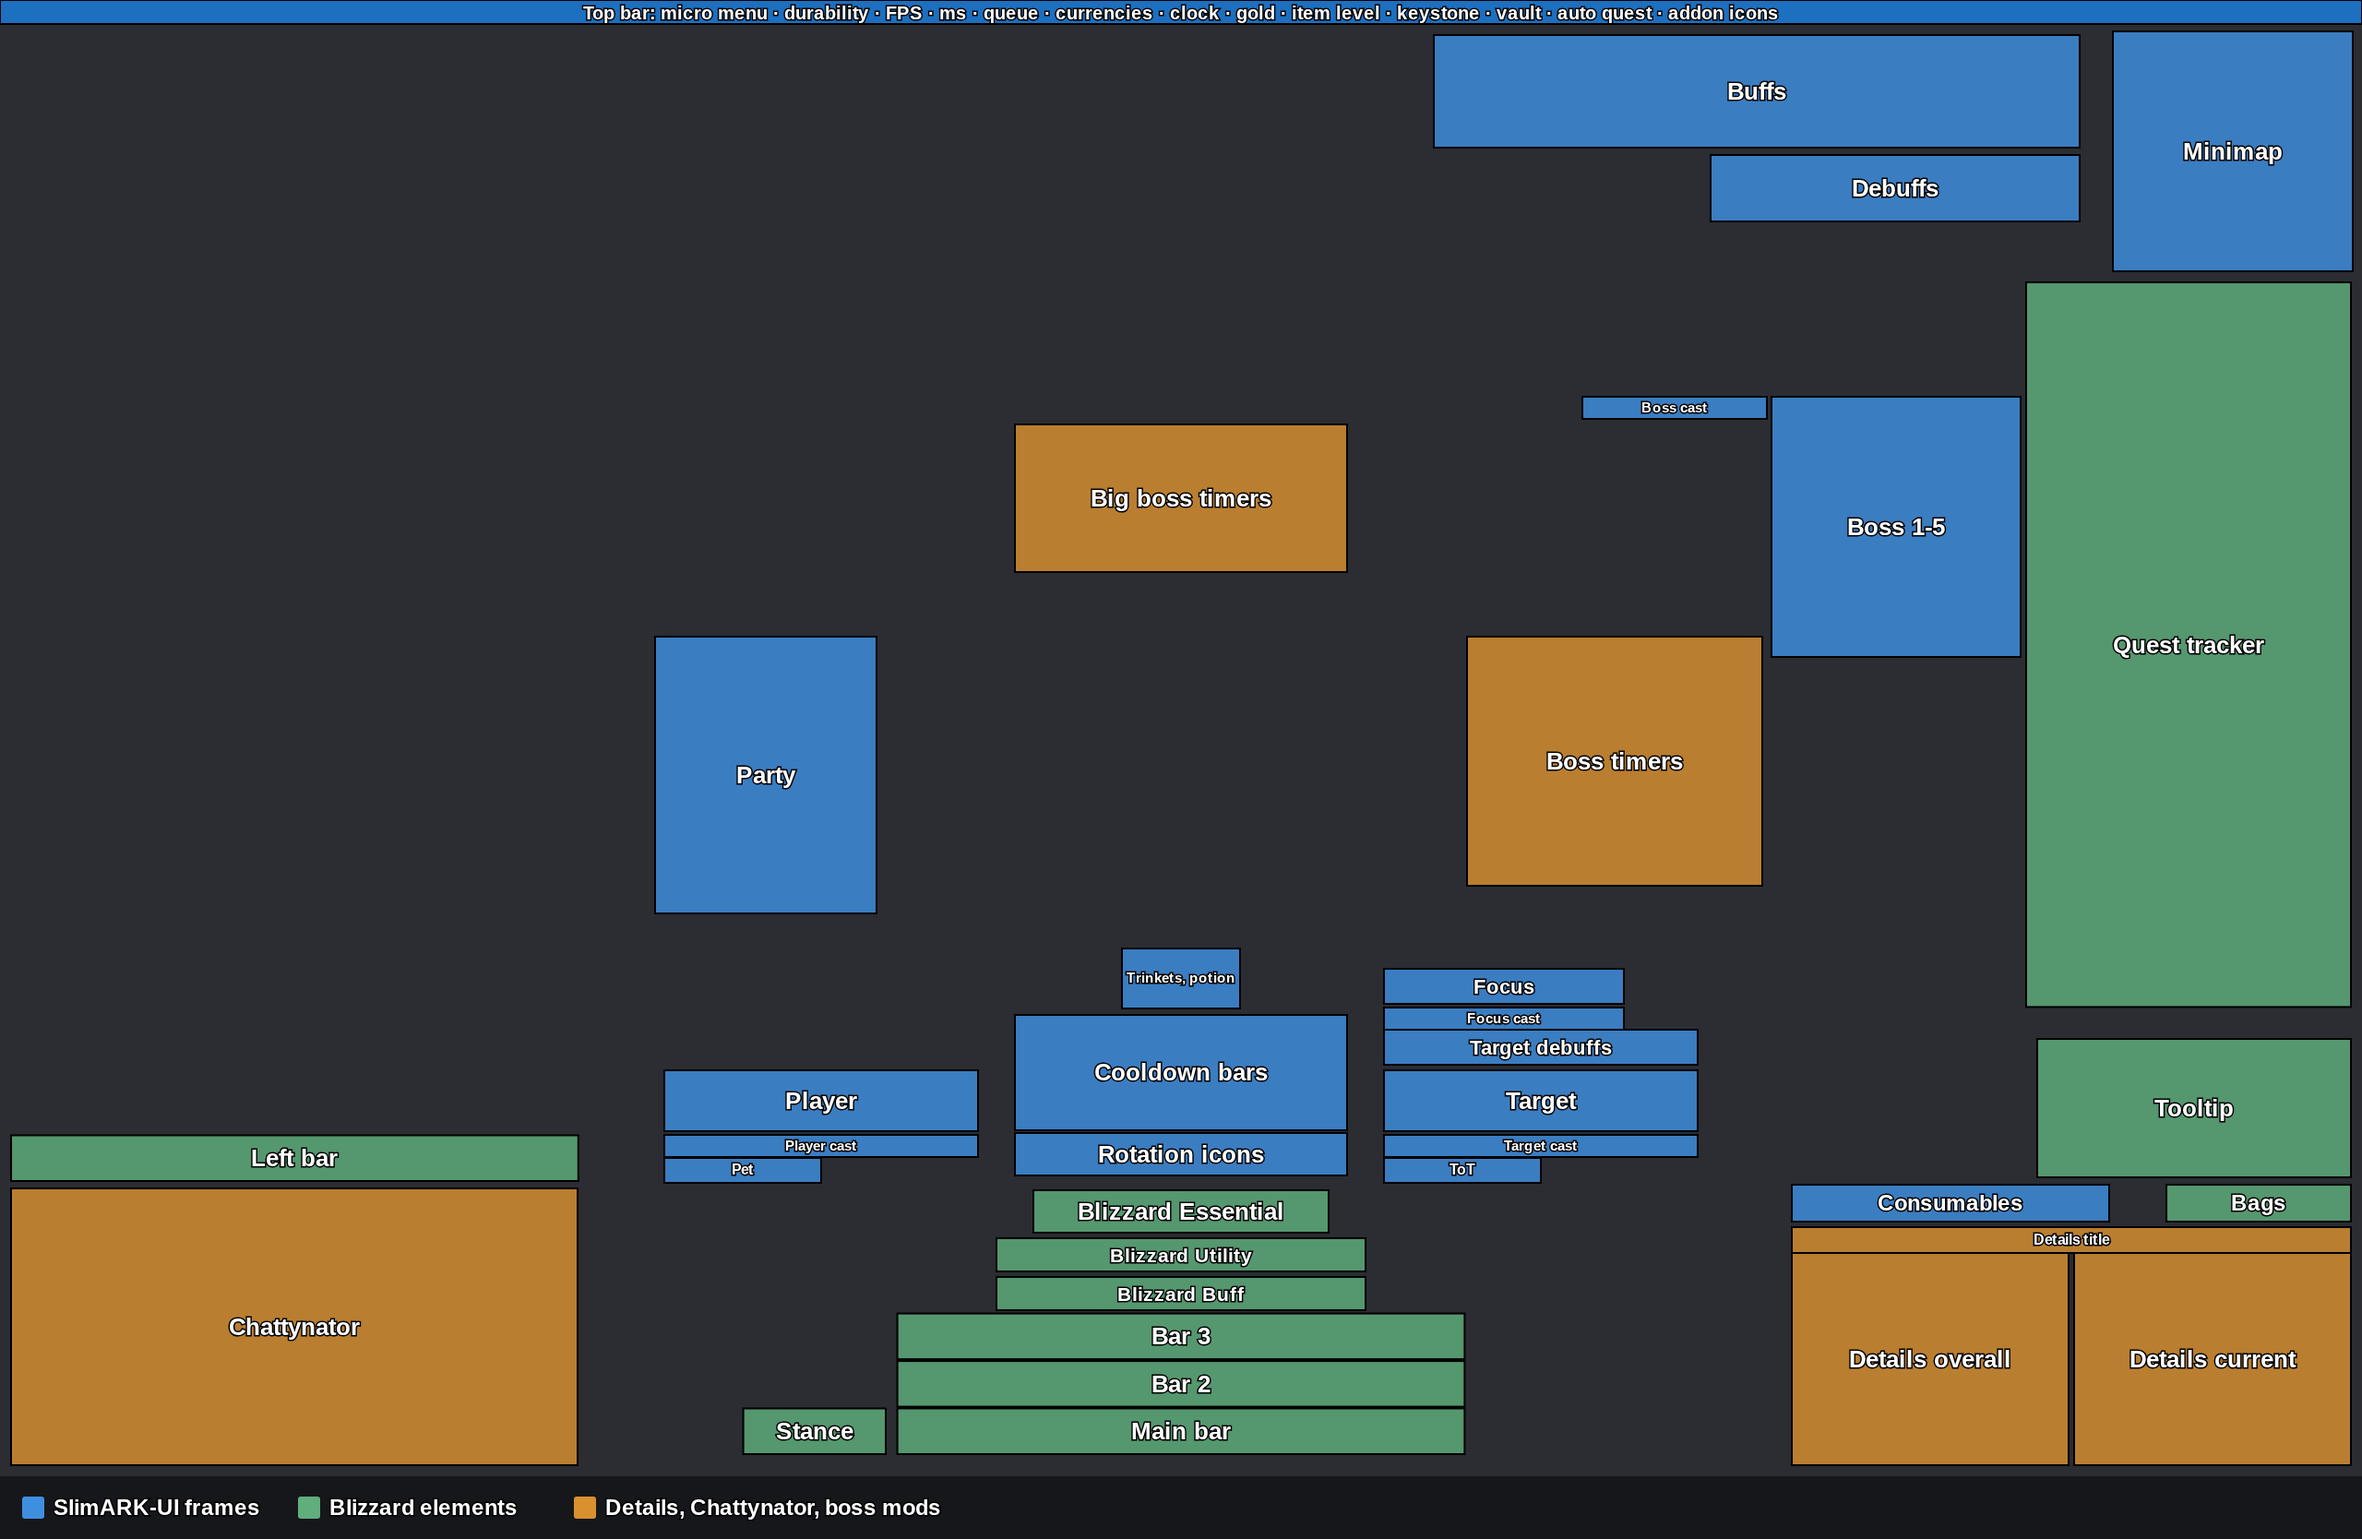
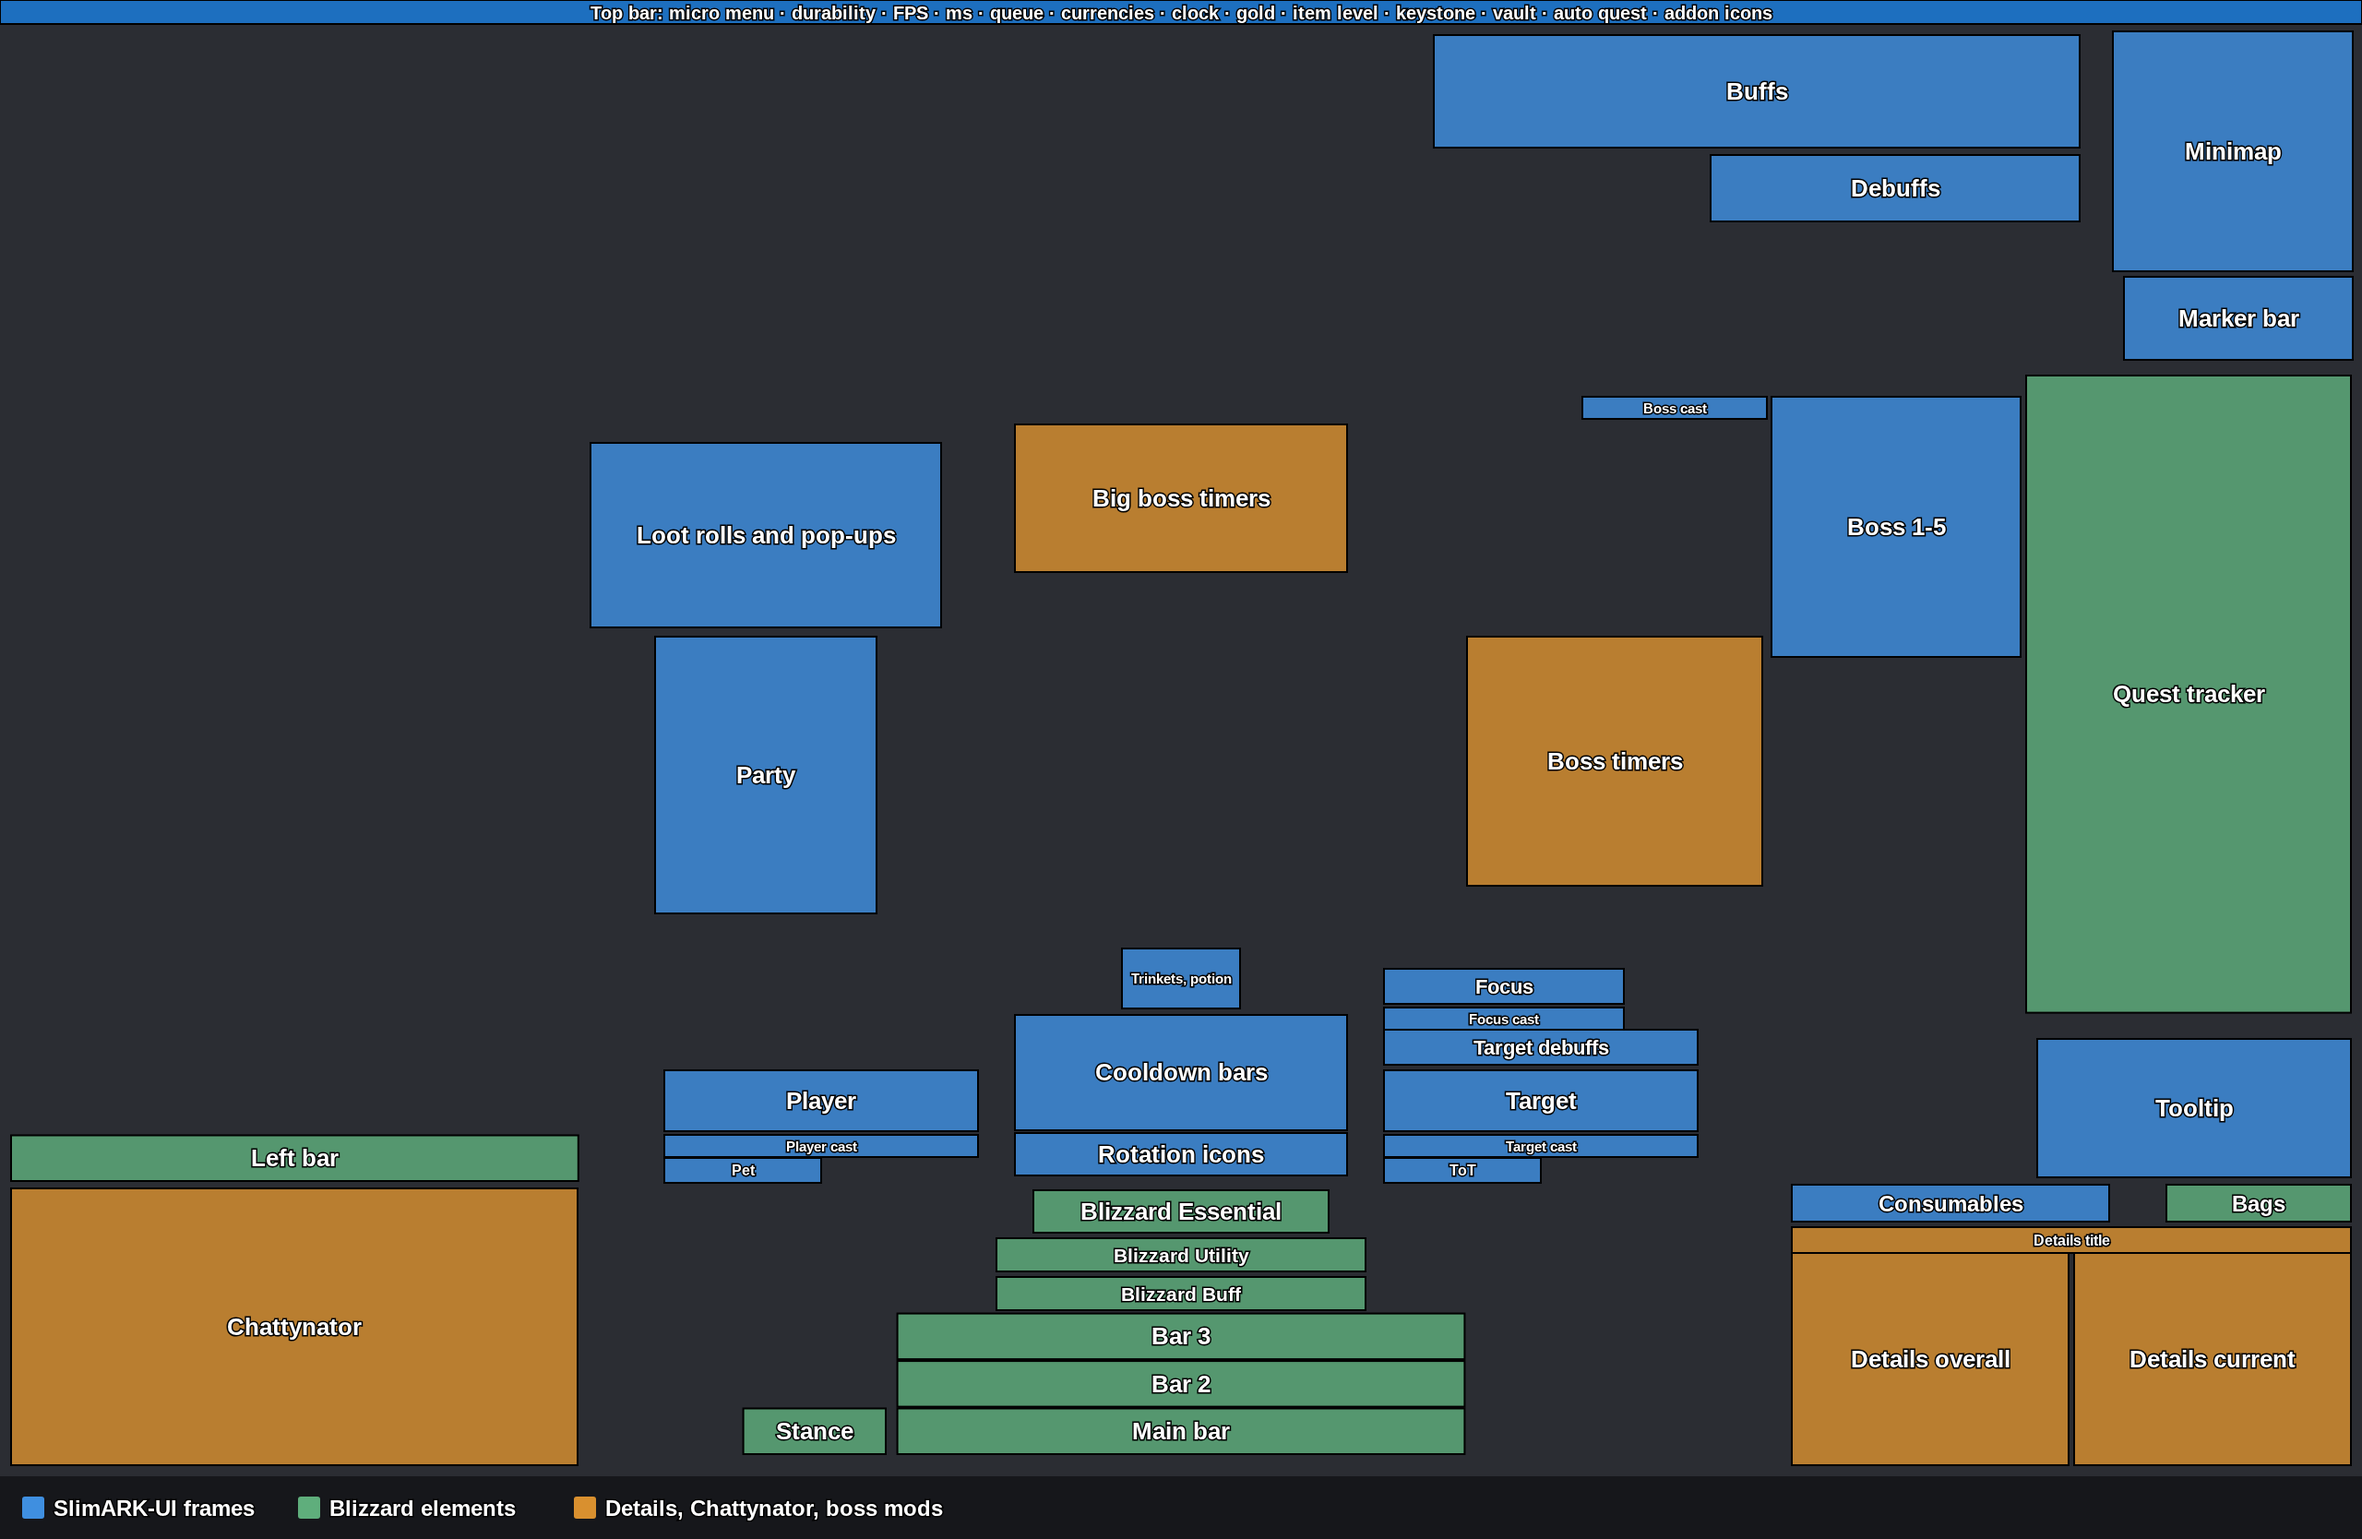
1.8.1: tooltip fixed place above the bags row, tracker shorter under the marker bar, new layout and feature images

diff --git a/CHANGELOG.md b/CHANGELOG.md
@@ -1,5 +1,10 @@
 # Changelog
 
+## 1.8.1
+
+- **Tooltip:** the fixed place moved up, its bottom right corner now sits right above the bags and consumables row, so it covers neither the Details title bar nor the bag buttons
+- **Quest tracker:** with the marker bar under the minimap the tracker gets shorter by the bar's height, so its bottom stays clear of the tooltip. Click Apply now after the update
+
 ## 1.8.0
 
 - **Tooltip:** flat, with a black edge and the SlimARK font. The class, reaction or item quality color is a thin stripe on top, the health bar a thin line under it. Players show their guild in green, their Mythic+ rating in its color, their item level with spec and their target. The item level is asked for out of combat only and kept for 10 minutes. Place: fixed above the Details windows or next to the mouse, on the Tooltip page
